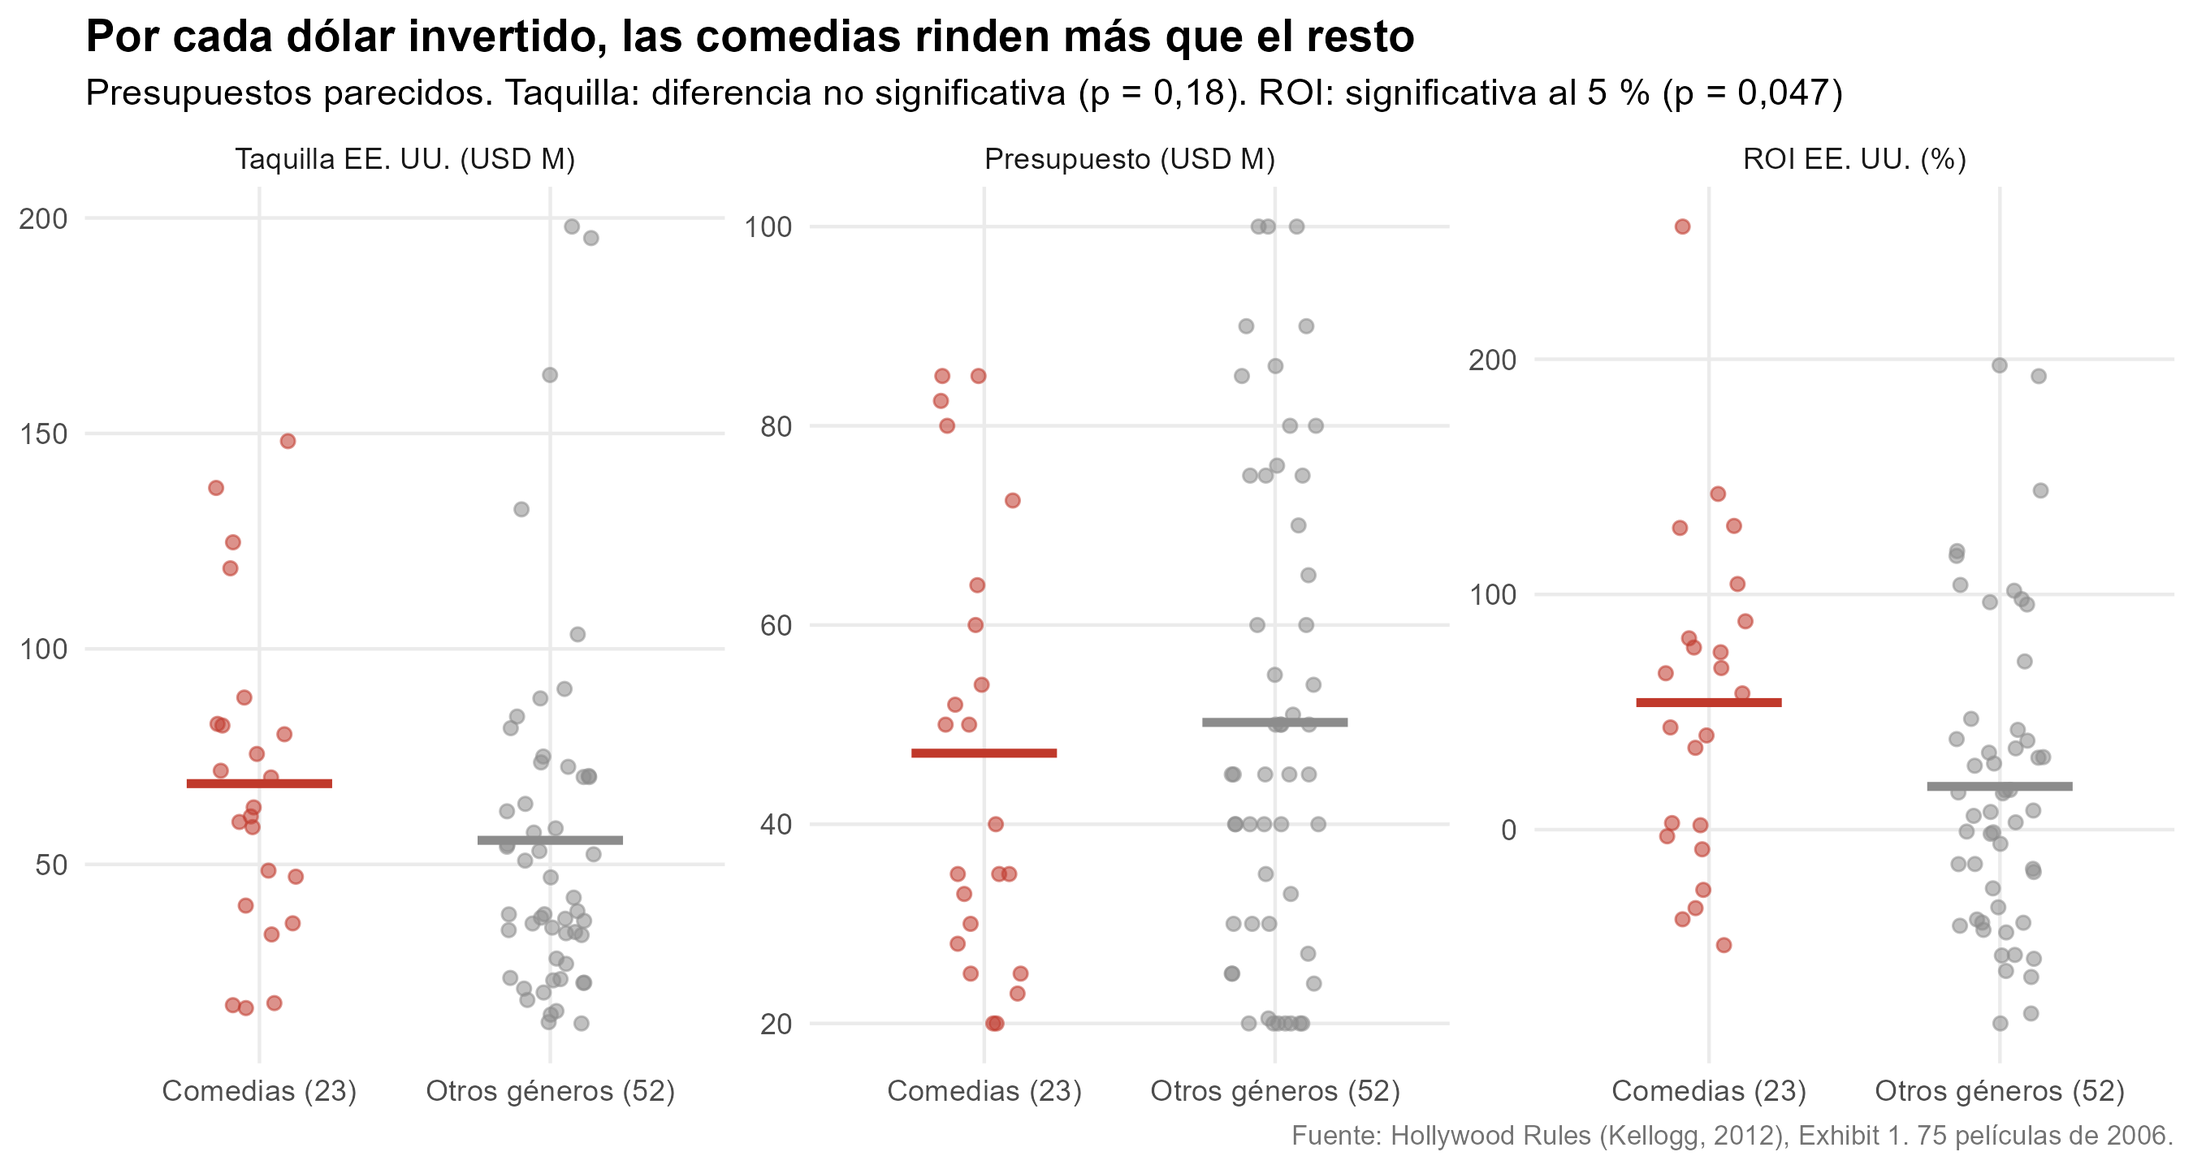
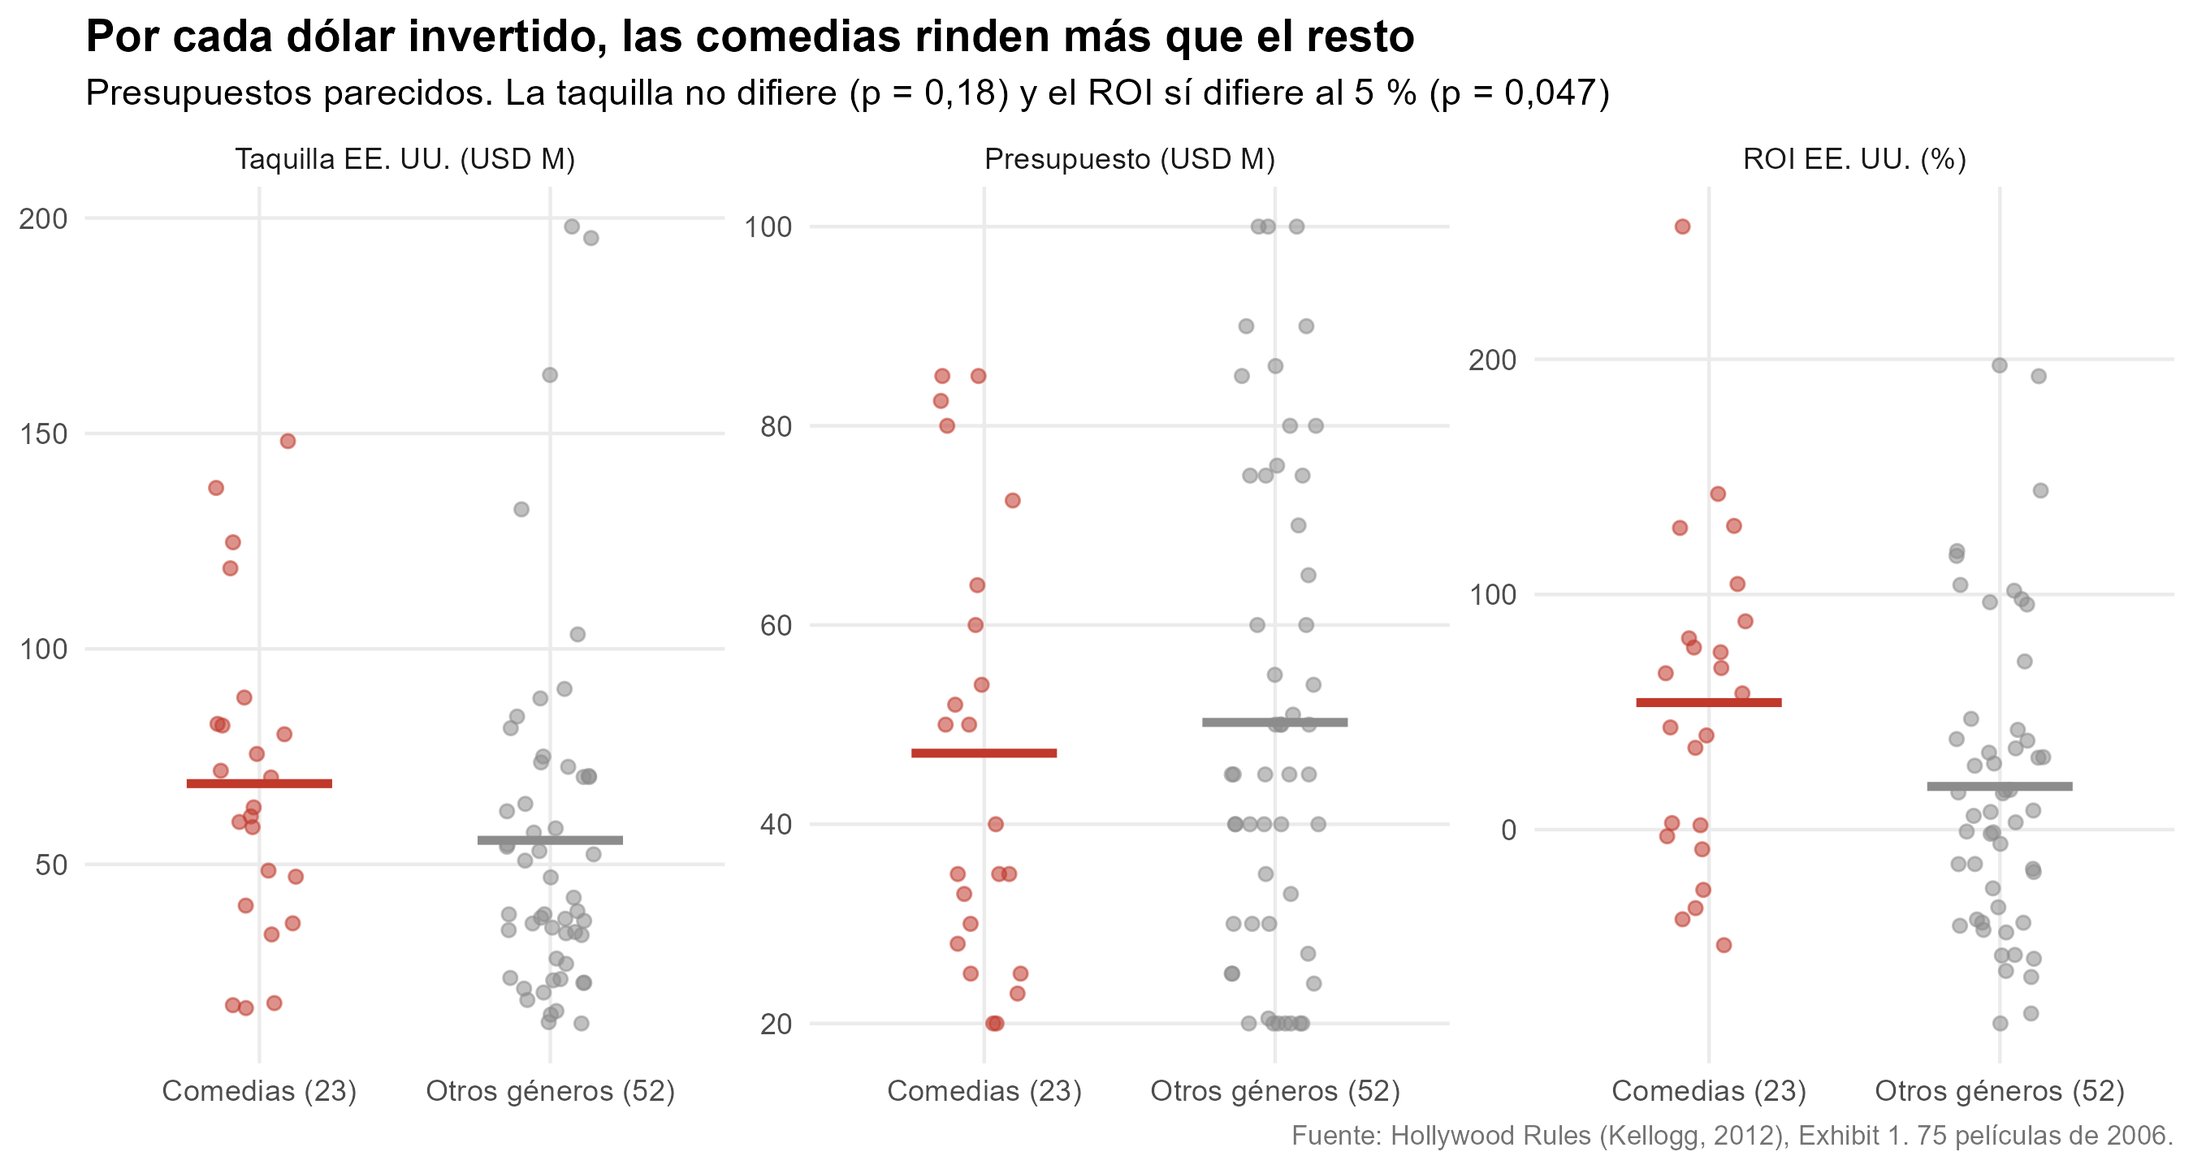
docs: redaccion de respuestas, README y textos de las graficas

Changed region(s): [[0.2178, 0.0625, 0.84, 0.0938]]

diff --git a/docs/respuestas-q01-q04.md b/docs/respuestas-q01-q04.md
@@ -7,14 +7,13 @@
 **Autor de esta sección:** Maximo van Fulpen
 **Fecha:** 9 de octubre de 2026
 
-Cálculos en `R/01_descriptivos_y_pruebas.R`. La carga de datos y las variables
-derivadas (la dummy de comedia y el ROI) están en `R/00_setup.R`. Los datos son
-las 75 películas de 2006 con presupuesto conocido entre USD 20 y 100 millones,
-sin datos faltantes.
+Los cálculos están en `R/01_descriptivos_y_pruebas.R` y la carga de datos en
+`R/00_setup.R`. Los datos son 75 películas de 2006 con presupuesto entre USD 20
+y 100 millones y sin datos faltantes.
 
 ## 1) Panorama inicial de los datos
 
-**Tabla 1.** Mínimo, promedio y máximo de las variables principales (75 películas)
+**Tabla 2.** Mínimo, promedio y máximo de las variables principales (75 películas)
 
 | Variable | Mínimo | Promedio | Máximo |
 |---|---|---|---|
@@ -23,33 +22,34 @@ sin datos faltantes.
 | Taquilla fuera de EE. UU. (USD) | 0 | 59.560.983 | 456.235.122 |
 | Salas en el estreno | 852 | 2.766 | 3.964 |
 
-El estreno más flojo fue *One Night with the King* y el más fuerte *Ice Age: The
-Meltdown*, que también tuvo la mayor taquilla internacional y el mayor número de
-salas. *Happy Feet* fue la de mayor taquilla en EE. UU. y *Flyboys* la menor. El
-mínimo de cero fuera de EE. UU. es *ATL*, que no se estrenó en el exterior.
+El estreno más flojo fue *One Night with the King* y el más fuerte fue *Ice
+Age: The Meltdown*. Esa misma película tuvo la mayor taquilla internacional y
+el mayor número de salas. *Happy Feet* fue la de mayor taquilla en EE. UU. y
+*Flyboys* la de menor. El cero fuera de EE. UU. corresponde a *ATL*, que no se
+estrenó en el exterior.
 
-La taquilla internacional promedia lo mismo que la de EE. UU. (59,6 millones
-contra 59,6 millones) pero su máximo es más del doble. Es la fuente de ingresos
-más dispersa, lo que coincide con lo que dice el caso de *Troy* o *Alexander*.
+La taquilla internacional tiene el mismo promedio que la de EE. UU. con 59,6
+millones cada una. Su máximo es más del doble, así que es la fuente de ingresos
+más dispersa. Eso coincide con lo que cuenta el caso de *Troy* y *Alexander*.
 
-En los datos hay 23 comedias y 15 películas calificadas R. La comedia es el
-género más frecuente, seguida del drama con 19. La clasificación más común es
+Hay 23 comedias y 15 películas calificadas R. La comedia es el género más
+frecuente y le sigue el drama con 19 películas. La clasificación más común es
 PG-13 con 37 películas.
 
 ## 2) ¿Rinde el negocio un 12 % al año?
 
-**a.** El ROI en EE. UU. de cada película se calculó como
-(taquilla total EE. UU. - presupuesto) / presupuesto. La tabla completa con las
-75 películas está en el anexo (Tabla A1). El mejor es *The Devil Wears Prada* con 256 %, y el
-peor *Arthur and the Invisibles* con -82 %.
+**a.** El ROI en EE. UU. de cada película es la taquilla total en EE. UU. menos
+el presupuesto, dividido entre el presupuesto. La tabla con las 75 películas
+está en el anexo (Tabla A1). El mejor ROI es el de *The Devil Wears Prada* con
+256 %. El peor es el de *Arthur and the Invisibles*, que perdió el 82 % de su
+presupuesto.
 
-**b.** El ROI medio es 29,3 % con desviación estándar de 68,7 %. Como la
-desviación poblacional no se conoce, el intervalo usa la t de Student con 74
-grados de libertad:
+**b.** El ROI medio es 29,3 % con una desviación estándar de 68,7 %. La
+desviación de la población no se conoce, así que el intervalo usa la t de
+Student con 74 grados de libertad. El intervalo del 95 % para el ROI medio va
+de 13,5 % a 45,1 %.
 
-IC del 95 % para el ROI medio: de 13,5 % a 45,1 %.
-
-**Tabla 2.** ROI en EE. UU. de las 75 películas
+**Tabla 3.** ROI en EE. UU. de las 75 películas
 
 | Medida | Valor |
 |---|---|
@@ -59,26 +59,27 @@ IC del 95 % para el ROI medio: de 13,5 % a 45,1 %.
 | Error estándar de la media | 7,9 % |
 | IC 95 % de la media | 13,5 % a 45,1 % |
 | t contra 12 % (74 gl) | 2,18 |
-| p-valor de una cola | 0,016 |
+| p valor de una cola | 0,016 |
 | Películas con ROI negativo | 29 de 75 |
 
-**c.** Se plantea una prueba de una cola, porque lo que se quiere mostrar es que
-el ROI supera el 12 %:
+**c.** El caso pide mostrar que el ROI es mayor que el 12 %, así que la prueba
+es de una cola. La hipótesis nula es que el ROI medio es menor o igual a 0,12 y
+la alternativa es que es mayor.
 
-- H0: μ ≤ 0,12
-- H1: μ > 0,12
+El estadístico t es 2,18 y el p valor es 0,016. Se rechaza la hipótesis nula al
+5 %. El ROI medio en EE. UU. es significativamente mayor que el 12 % que cita
+Michael London. El intervalo de la parte b lleva a la misma conclusión porque
+deja el 12 % por fuera.
 
-t = (0,2929 - 0,12) / 0,0794 = 2,18, con p = 0,016. Se rechaza H0 al 5 %:
-el ROI medio en EE. UU. es significativamente mayor que el 12 % de Michael London.
-Lo confirma el intervalo de la parte (b), que deja el 12 % por fuera.
+Hay dos advertencias para Meyer. La mediana es 16,7 % y está muy por debajo de
+la media, porque unos pocos éxitos suben el promedio. Además 29 de las 75
+películas no recuperan su presupuesto solo con la taquilla de EE. UU.
 
-Dos advertencias para Meyer. Primero, la mediana es 16,7 %, bastante menor que la
-media, porque unos pocos éxitos jalan el promedio. Segundo, 29 de las 75
-películas no recuperan su presupuesto solo con la taquilla de EE. UU. El
-rendimiento promedio es bueno, pero se gana con un portafolio, no con una
-película. Es justamente el argumento de los *slate financing deals*. Además el
-ROI ignora la publicidad, que según el caso promedia USD 34,5 millones, y el
-reparto de la taquilla con los exhibidores, así que sobrestima el retorno real.
+El rendimiento promedio es bueno pero se logra con un portafolio y no con una
+película suelta. Ese es el argumento de los acuerdos de slate financing. El ROI
+tampoco descuenta la publicidad, que según el caso promedia USD 34,5 millones,
+ni la parte de la taquilla que se queda el exhibidor. Por eso sobrestima el
+retorno real.
 
 ![](output/figures/q2_distribucion_roi.png)
 
@@ -90,31 +91,32 @@ Se usó la prueba t de Welch para dos muestras independientes, que no supone
 varianzas iguales. La versión con varianza combinada lleva a las mismas
 conclusiones.
 
-**Tabla 3.** Comedias contra el resto de géneros (prueba t de Welch)
+**Tabla 4.** Comedias contra el resto de géneros (prueba t de Welch)
 
-| Variable | Comedias (23) | Otros géneros (52) | Diferencia | p-valor |
+| Variable | Comedias (23) | Otros géneros (52) | Diferencia | p valor |
 |---|---|---|---|---|
 | Taquilla EE. UU. (USD M) | 68,7 | 55,6 | 13,2 | 0,176 |
 | ROI EE. UU. | 54,0 % | 18,4 % | 35,7 pp | 0,047 |
 | Presupuesto (USD M) | 47,1 | 50,2 | -3,1 | 0,592 |
 
-**a.** H0: la taquilla media de las comedias es igual a la del resto. Las
-comedias recaudan en promedio 13,2 millones más, pero con p = 0,176 no se puede
-rechazar H0. El intervalo del 95 % para la diferencia va de -6,1 a 32,4
-millones e incluye el cero. No hay evidencia de que la comedia recaude distinto.
+**a.** La hipótesis nula es que la taquilla media de las comedias es igual a la
+del resto. Las comedias recaudan en promedio 13,2 millones más, pero el p valor
+es 0,176 y no se rechaza la hipótesis nula. El intervalo del 95 % para la
+diferencia incluye el cero. No hay evidencia de que la comedia recaude distinto.
 
-**b.** En ROI la historia cambia. Las comedias rinden 54,0 % contra 18,4 % del
-resto, una diferencia de 35,7 puntos porcentuales con p = 0,047. La diferencia
-es significativa al 5 % (no al 1 %). El intervalo del 95 % va de 0,4 a 70,9
+**b.** En ROI el resultado cambia. Las comedias rinden 54,0 % y el resto 18,4 %.
+La diferencia es de 35,7 puntos porcentuales con un p valor de 0,047, así que
+es significativa al 5 % pero no al 1 %. El intervalo del 95 % va de 0,4 a 70,9
 puntos.
 
-La sospecha de Griffith era que el mayor ingreso venía con una mayor inversión.
-Los datos no la apoyan: las comedias cuestan casi lo mismo que el resto (47,1
-contra 50,2 millones, p = 0,59). Lo que pasa es que el ROI divide por el
-presupuesto y así elimina la parte de la variación de la taquilla que viene del
-tamaño de cada producción. Con menos ruido, la misma ventaja de la comedia se
-vuelve detectable. Para un inversionista que pone plata por película, la
-variable relevante es el ROI, y ahí la comedia sale ganando.
+Griffith sospechaba que las comedias recaudaban más porque costaban más. Los
+datos no apoyan esa idea, porque su presupuesto es casi igual al del resto con
+47,1 contra 50,2 millones y un p valor de 0,59.
+
+El ROI divide la taquilla entre el presupuesto y así quita la variación que
+viene del tamaño de cada producción. Con menos ruido la ventaja de la comedia se
+vuelve detectable. Para un inversionista que pone dinero en cada película la
+variable que importa es el ROI, y ahí la comedia sale ganando.
 
 ![](output/figures/q3_comedia_vs_resto.png)
 
@@ -122,25 +124,26 @@ variable relevante es el ROI, y ahí la comedia sale ganando.
 
 ## 4) Películas R contra el resto
 
-**a.** H0: la taquilla media de las películas R es igual a la del resto.
+**Tabla 5.** Películas R contra el resto (prueba t de Welch)
 
-**Tabla 4.** Películas R contra el resto (prueba t de Welch)
-
-| Variable | R (15) | Otras (60) | Diferencia | p-valor |
+| Variable | R (15) | Otras (60) | Diferencia | p valor |
 |---|---|---|---|---|
 | Taquilla EE. UU. (USD M) | 53,3 | 61,2 | -7,9 | 0,398 |
 | ROI EE. UU. | 20,9 % | 31,4 % | -10,5 pp | 0,570 |
 
-Las 15 películas R recaudan en promedio 53,3 millones en EE. UU. y las 60 de
-otras clasificaciones 61,2 millones. La diferencia de -7,9 millones tiene
-p = 0,398 (t de Welch), así que no se rechaza H0. Tampoco hay diferencia en
-ROI (20,9 % contra 31,4 %, p = 0,57).
+**a.** La hipótesis nula es que la taquilla media de las películas R es igual a
+la del resto. Las 15 películas R recaudan en promedio 53,3 millones en EE. UU. y
+las otras 60 recaudan 61,2 millones. La diferencia es de 7,9 millones a favor
+del resto con un p valor de 0,398, así que no se rechaza la hipótesis nula.
+Tampoco hay diferencia en ROI, con 20,9 % contra 31,4 % y un p valor de 0,57.
 
-La creencia de que las R rinden mejor no se sostiene. Si algo, el signo va al
-revés, en línea con lo que el caso cuenta del mercado en 2006, donde las PG y
-PG-13 dominaron las taquillas más altas. Con solo 15 películas R la prueba tiene
-poca potencia, así que la conclusión correcta es que no hay evidencia de que
-las R rindan mejor, no que rindan igual.
+La creencia de que las películas R rinden mejor no se sostiene. La diferencia
+incluso va en la dirección contraria, lo que coincide con el caso cuando cuenta
+que en 2006 las películas PG y PG-13 dominaron las taquillas más altas.
+
+Con solo 15 películas R la prueba tiene poca potencia. Por eso la conclusión
+correcta es que no hay evidencia de que las películas R rindan mejor, y no que
+rindan igual.
 
 ![](output/figures/q4_r_vs_resto.png)
 

diff --git a/docs/respuestas-q07.md b/docs/respuestas-q07.md
@@ -7,56 +7,58 @@
 **Autora de esta sección:** Helen Sofía Castiblanco
 **Fecha:** 9 de octubre de 2026
 
-Cálculos en `R/02_regla_del_25.R`. Por indicación del profesor solo se
+Los cálculos están en `R/02_regla_del_25.R`. Por indicación del profesor se
 responden los literales a, b y g, que usan regresión lineal simple y R².
 
 ## 7) La regla de que el estreno es el 25 % del total
 
 **a.** Se estimó una regresión lineal simple de la taquilla total en EE. UU.
-sobre la taquilla del fin de semana de estreno, con las 75 películas.
+sobre la taquilla del fin de semana de estreno con las 75 películas.
 
-**Tabla 5.** Regresión de la taquilla total en EE. UU. sobre la taquilla de estreno
+**Tabla 6.** Regresión de la taquilla total en EE. UU. sobre la taquilla de estreno
 
-| Término | Coeficiente | Error estándar | t | p-valor | IC 95 % |
+| Término | Coeficiente | Error estándar | t | p valor | IC 95 % |
 |---|---|---|---|---|---|
 | Intercepto (USD) | 5.108.220 | 4.502.660 | 1,13 | 0,260 | -3,9 M a 14,1 M |
 | Taquilla de estreno | 3,1206 | 0,2181 | 14,31 | < 0,001 | 2,686 a 3,555 |
 
-taquilla EE. UU. = 5.108.220 + 3,1206 x estreno
+La recta estimada es taquilla total = 5.108.220 + 3,1206 x estreno.
 
-La pendiente dice que cada dólar adicional recaudado en el fin de semana de
-estreno se asocia en promedio con 3,12 dólares más de taquilla total en EE. UU.
-Dicho de otra forma, un estreno 10 millones más alto se asocia con unos 31,2
-millones más de taquilla total. El intercepto no es significativamente distinto
-de cero (p = 0,26) y no tiene una lectura útil, porque ninguna película estrena
-con cero dólares.
+Cada dólar adicional en el fin de semana de estreno se asocia en promedio con
+3,12 dólares más de taquilla total en EE. UU. Un estreno 10 millones más alto se
+asocia con unos 31,2 millones más en el total.
+
+El intercepto no es significativamente distinto de cero con un p valor de 0,26.
+Tampoco tiene una lectura útil, porque ninguna película estrena con cero
+dólares.
 
 ![](output/figures/q7_total_vs_estreno.png)
 
 **Figura 4.** Taquilla total en EE. UU. contra taquilla de estreno, con la recta estimada y la regla del 25 %
 
 **b.** Si el estreno fuera el 25 % del total, la taquilla total sería el estreno
-dividido entre 0,25, o sea 4 veces el estreno:
+dividido entre 0,25. Eso es lo mismo que 4 veces el estreno. La pendiente
+tendría que ser **4** y el intercepto tendría que ser cero.
 
-total = estreno / 0,25 = 4 x estreno
+La pendiente estimada es 3,12 y todo su intervalo del 95 % queda por debajo de
+4. En la gráfica la línea roja de la regla pasa por encima de la mayoría de las
+películas, sobre todo de las que tuvieron un estreno grande.
 
-Así que la pendiente de la regresión tendría que ser **4**, con un intercepto
-de cero. La pendiente estimada es 3,12, menor que 4, y todo su intervalo del
-95 % (2,69 a 3,56) queda por debajo de ese valor. En la gráfica se ve que la
-línea roja de la regla pasa por encima de la mayoría de las películas, sobre
-todo de las de estreno grande. Una pendiente de 3,12 quiere decir que, en el
-margen, el estreno pesa más del 25 % del total, cerca del 32 % (1 / 3,12).
+Con una pendiente de 3,12 el estreno equivale en el margen a cerca del 32 % del
+total, que es 1 dividido entre 3,12. El estreno pesa más de lo que dice la
+regla.
 
-**c. a f.** Se omiten por indicación del profesor.
+**c a f.** Se omiten por indicación del profesor.
 
 **g.** El R² de la regresión es **0,737**. El 73,7 % de la variación de la
-taquilla total en EE. UU. entre películas se explica por la variación de la
-taquilla del fin de semana de estreno. El 26,3 % restante no lo explica el
-estreno y corresponde a otros factores, por ejemplo lo que pasa después del
-primer fin de semana, como la crítica, el voz a voz o la competencia en
-cartelera.
+taquilla total en EE. UU. se explica por la variación de la taquilla del fin de
+semana de estreno.
 
-**Tabla 6.** Ajuste de la regresión simple
+El 26,3 % restante corresponde a otros factores. Entre ellos están los que
+actúan después del primer fin de semana, como la crítica, el voz a voz y la
+competencia en cartelera.
+
+**Tabla 7.** Ajuste de la regresión simple
 
 | Medida | Valor |
 |---|---|
@@ -65,9 +67,8 @@ cartelera.
 | R² ajustado | 0,734 |
 | Error estándar de la regresión (USD) | 20.788.800 |
 | Estadístico F (1, 73) | 204,8 |
-| p-valor de F | < 0,001 |
+| p valor de F | < 0,001 |
 
-Para Meyer la lectura es directa. El primer fin de semana define casi tres
-cuartas partes de lo que va a pasar con una película en EE. UU., así que es la
-señal más temprana y más confiable que tiene un inversionista para saber cómo
-va cada película del portafolio.
+Para Meyer la lectura es directa. El primer fin de semana anticipa casi tres
+cuartas partes de lo que va a recaudar una película en EE. UU. Es la señal más
+temprana y más confiable para saber cómo va cada película del portafolio.

diff --git a/README.md b/README.md
@@ -3,41 +3,42 @@
 Analítica de los Negocios (BA-2630), Pontificia Universidad Javeriana, 2026-3.
 Profesor: Juan Nicolás Velásquez Rey.
 
-¿Rinde invertir en un portafolio de películas de USD 20 a 100 millones? Con los
-datos de 75 películas de 2006 respondemos las preguntas 1 a 4 completas y los
-literales a, b y g de la pregunta 7, que es el alcance que indicó el profesor
-para esta entrega.
+Este repositorio analiza si conviene invertir en un portafolio de películas de
+USD 20 a 100 millones. Usa los datos de 75 películas de 2006 y responde las
+preguntas 1 a 4 completas y los literales a, b y g de la pregunta 7.
 
 ## Equipo
 
 | Integrante | Parte |
 |---|---|
-| Maximo van Fulpen | Preguntas 1 a 4, estructura y README |
-| Helen Sofía Castiblanco | Pregunta 7 (antes también 5 y 6) |
+| Maximo van Fulpen | Preguntas 1 a 4, estructura del repositorio y README |
+| Helen Sofía Castiblanco | Pregunta 7 |
 | Camilo Hernández | Preguntas 8 a 10, que quedaron fuera del alcance de esta entrega |
 
 ## Archivos
 
-- `data/Hollywood.xls`: datos del caso (hoja Exhibit 1)
-- `R/00_setup.R`: carga de datos, variables derivadas (comedia y ROI) y funciones comunes
-- `R/01_descriptivos_y_pruebas.R`: preguntas 1 a 4
-- `R/02_regla_del_25.R`: pregunta 7 a, b y g
-- `docs/respuestas-q01-q04.md` y `docs/respuestas-q07.md`: respuestas
-- `output/tables/` y `output/figures/`: tablas y gráficas que generan los scripts
+| Ruta | Contenido |
+|---|---|
+| `data/Hollywood.xls` | Datos del caso (hoja Exhibit 1) |
+| `R/00_setup.R` | Carga de datos, variables derivadas y funciones comunes |
+| `R/01_descriptivos_y_pruebas.R` | Preguntas 1 a 4 |
+| `R/02_regla_del_25.R` | Pregunta 7 a, b y g |
+| `docs/` | Respuestas de cada pregunta |
+| `output/tables/` | Tablas que generan los scripts |
+| `output/figures/` | Gráficas que generan los scripts |
 
 ## Cómo correrlo
 
-1. Instalar R (4.3 o más reciente) y los paquetes:
+1. Instalar R 4.3 o más reciente y los paquetes del análisis.
 
 ```r
 install.packages(c("tidyverse", "readxl", "scales"))
 ```
 
 2. Abrir R con la carpeta del repositorio como directorio de trabajo. En RStudio
-   basta con abrir la carpeta como proyecto. Las rutas son relativas a esa
-   carpeta.
+   basta con abrir la carpeta como proyecto.
 
-3. Correr los scripts en orden:
+3. Correr los dos scripts en orden.
 
 ```r
 source("R/01_descriptivos_y_pruebas.R")
